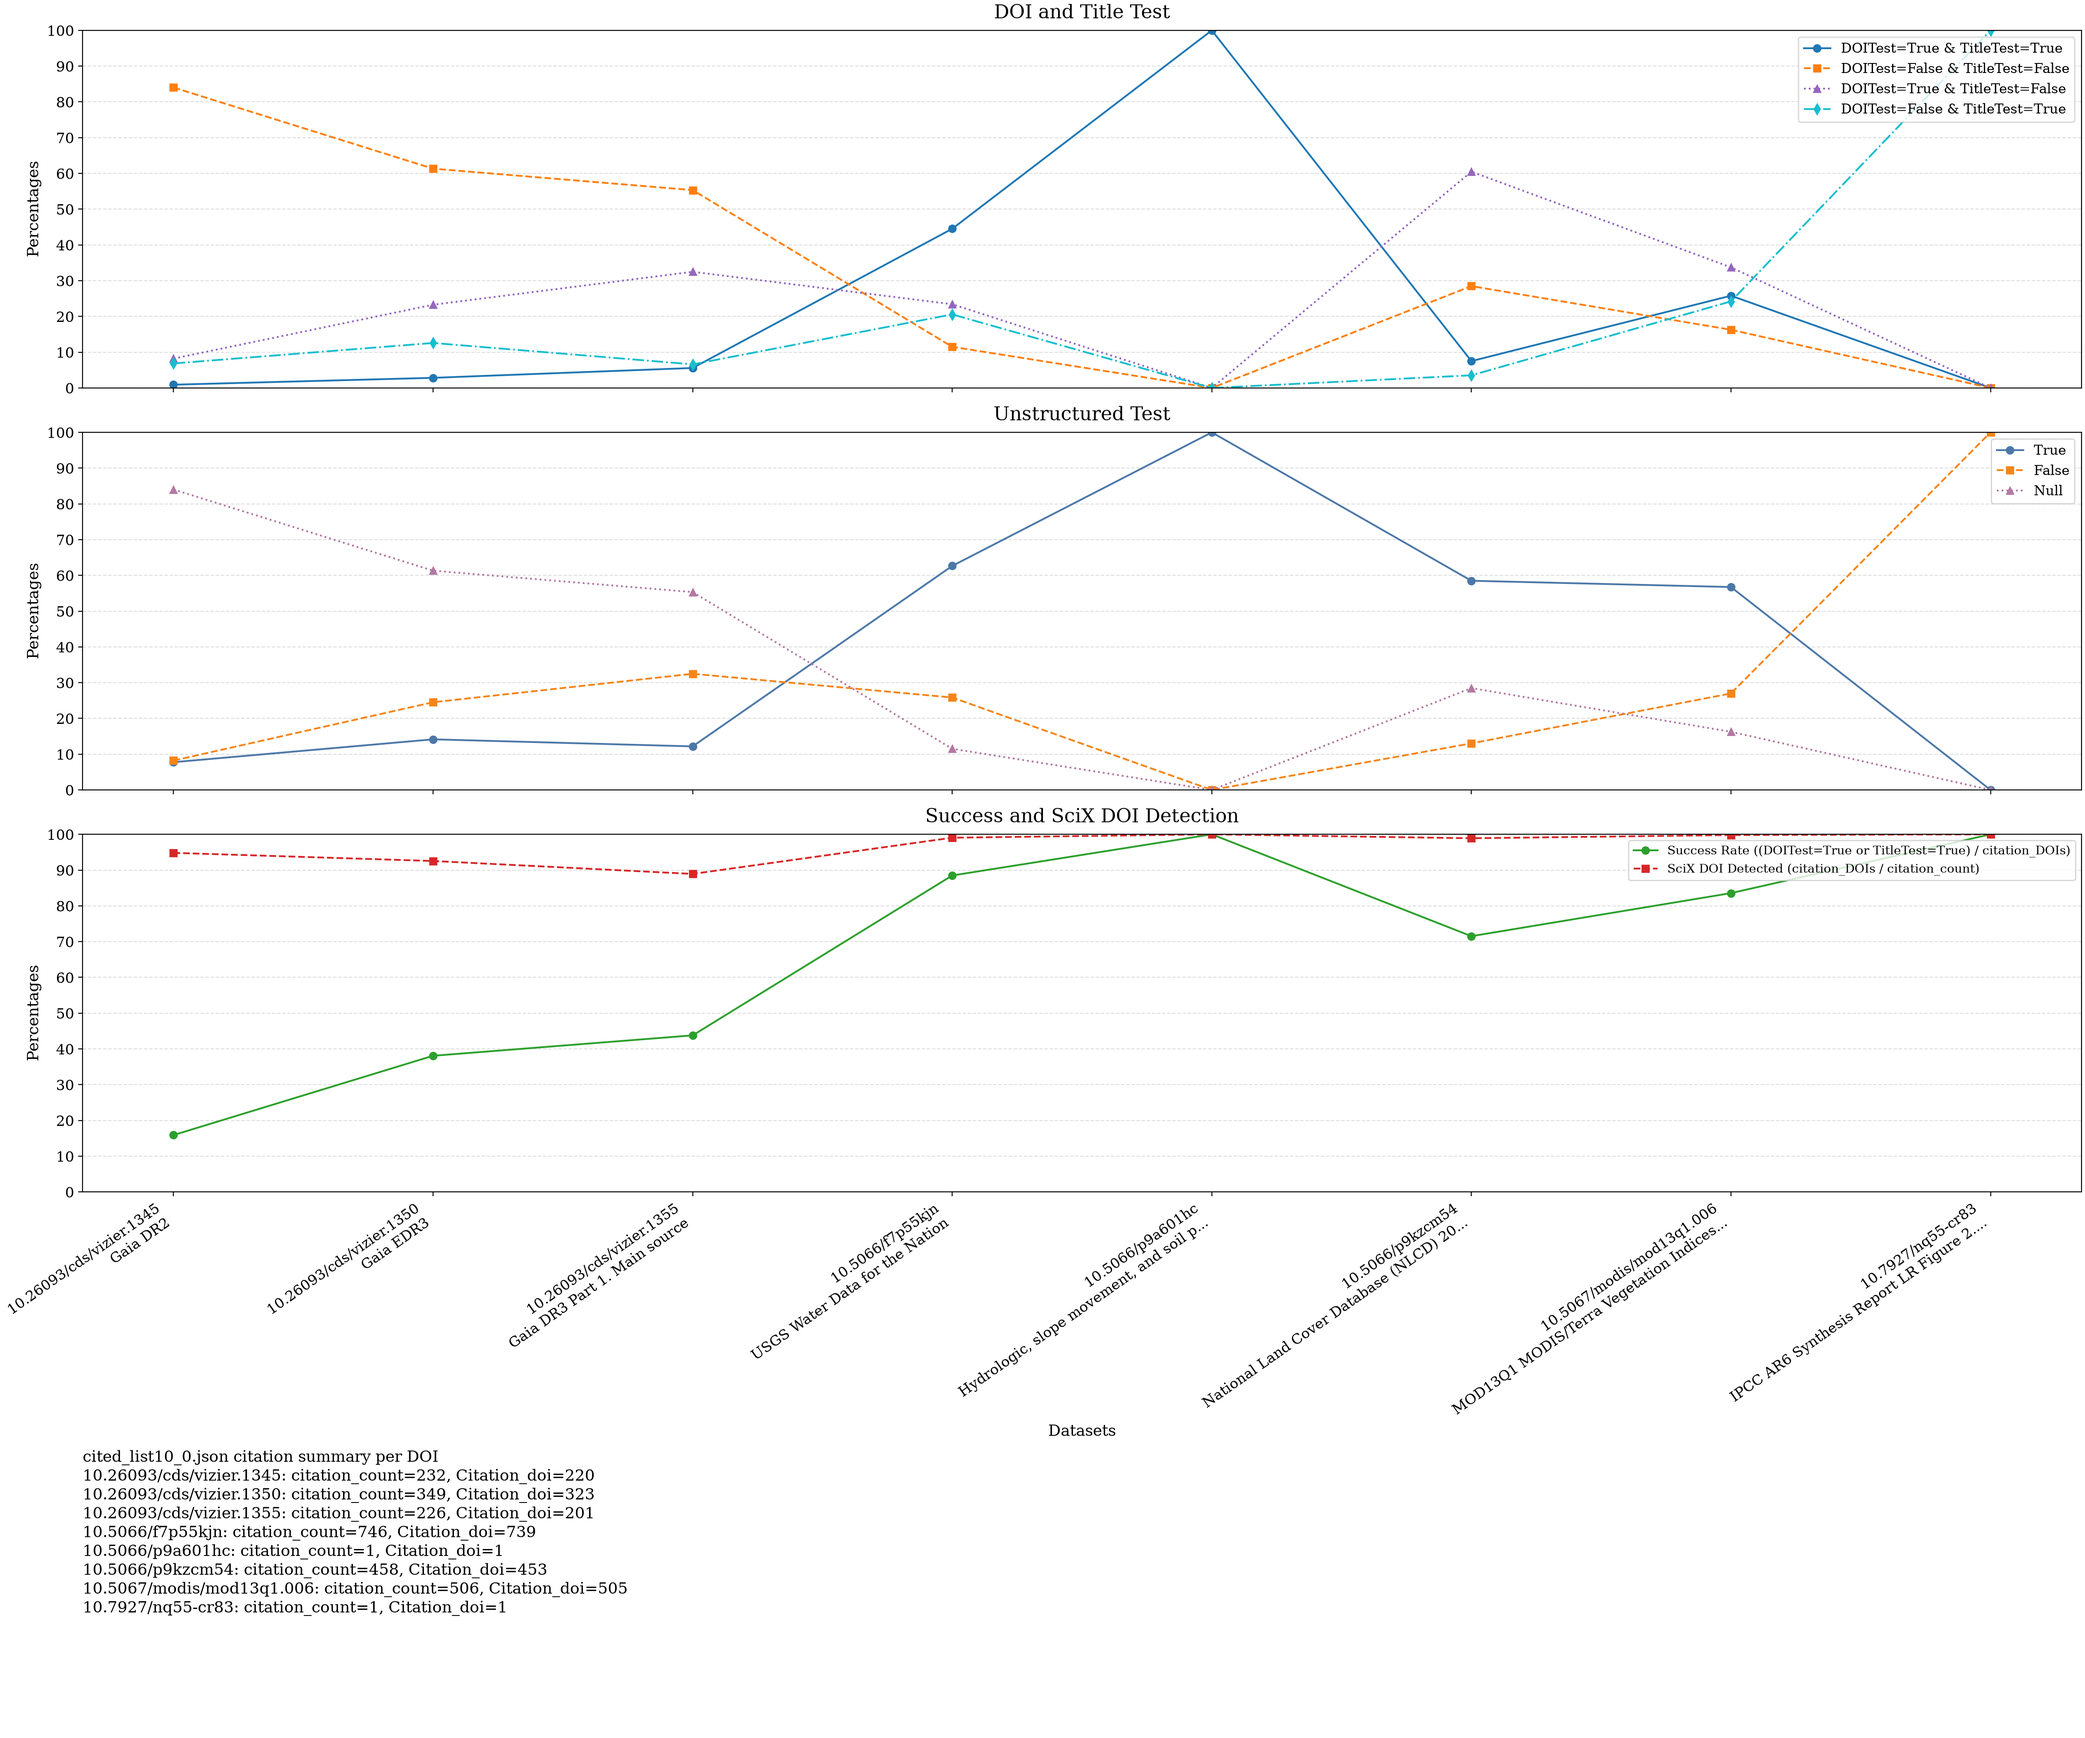
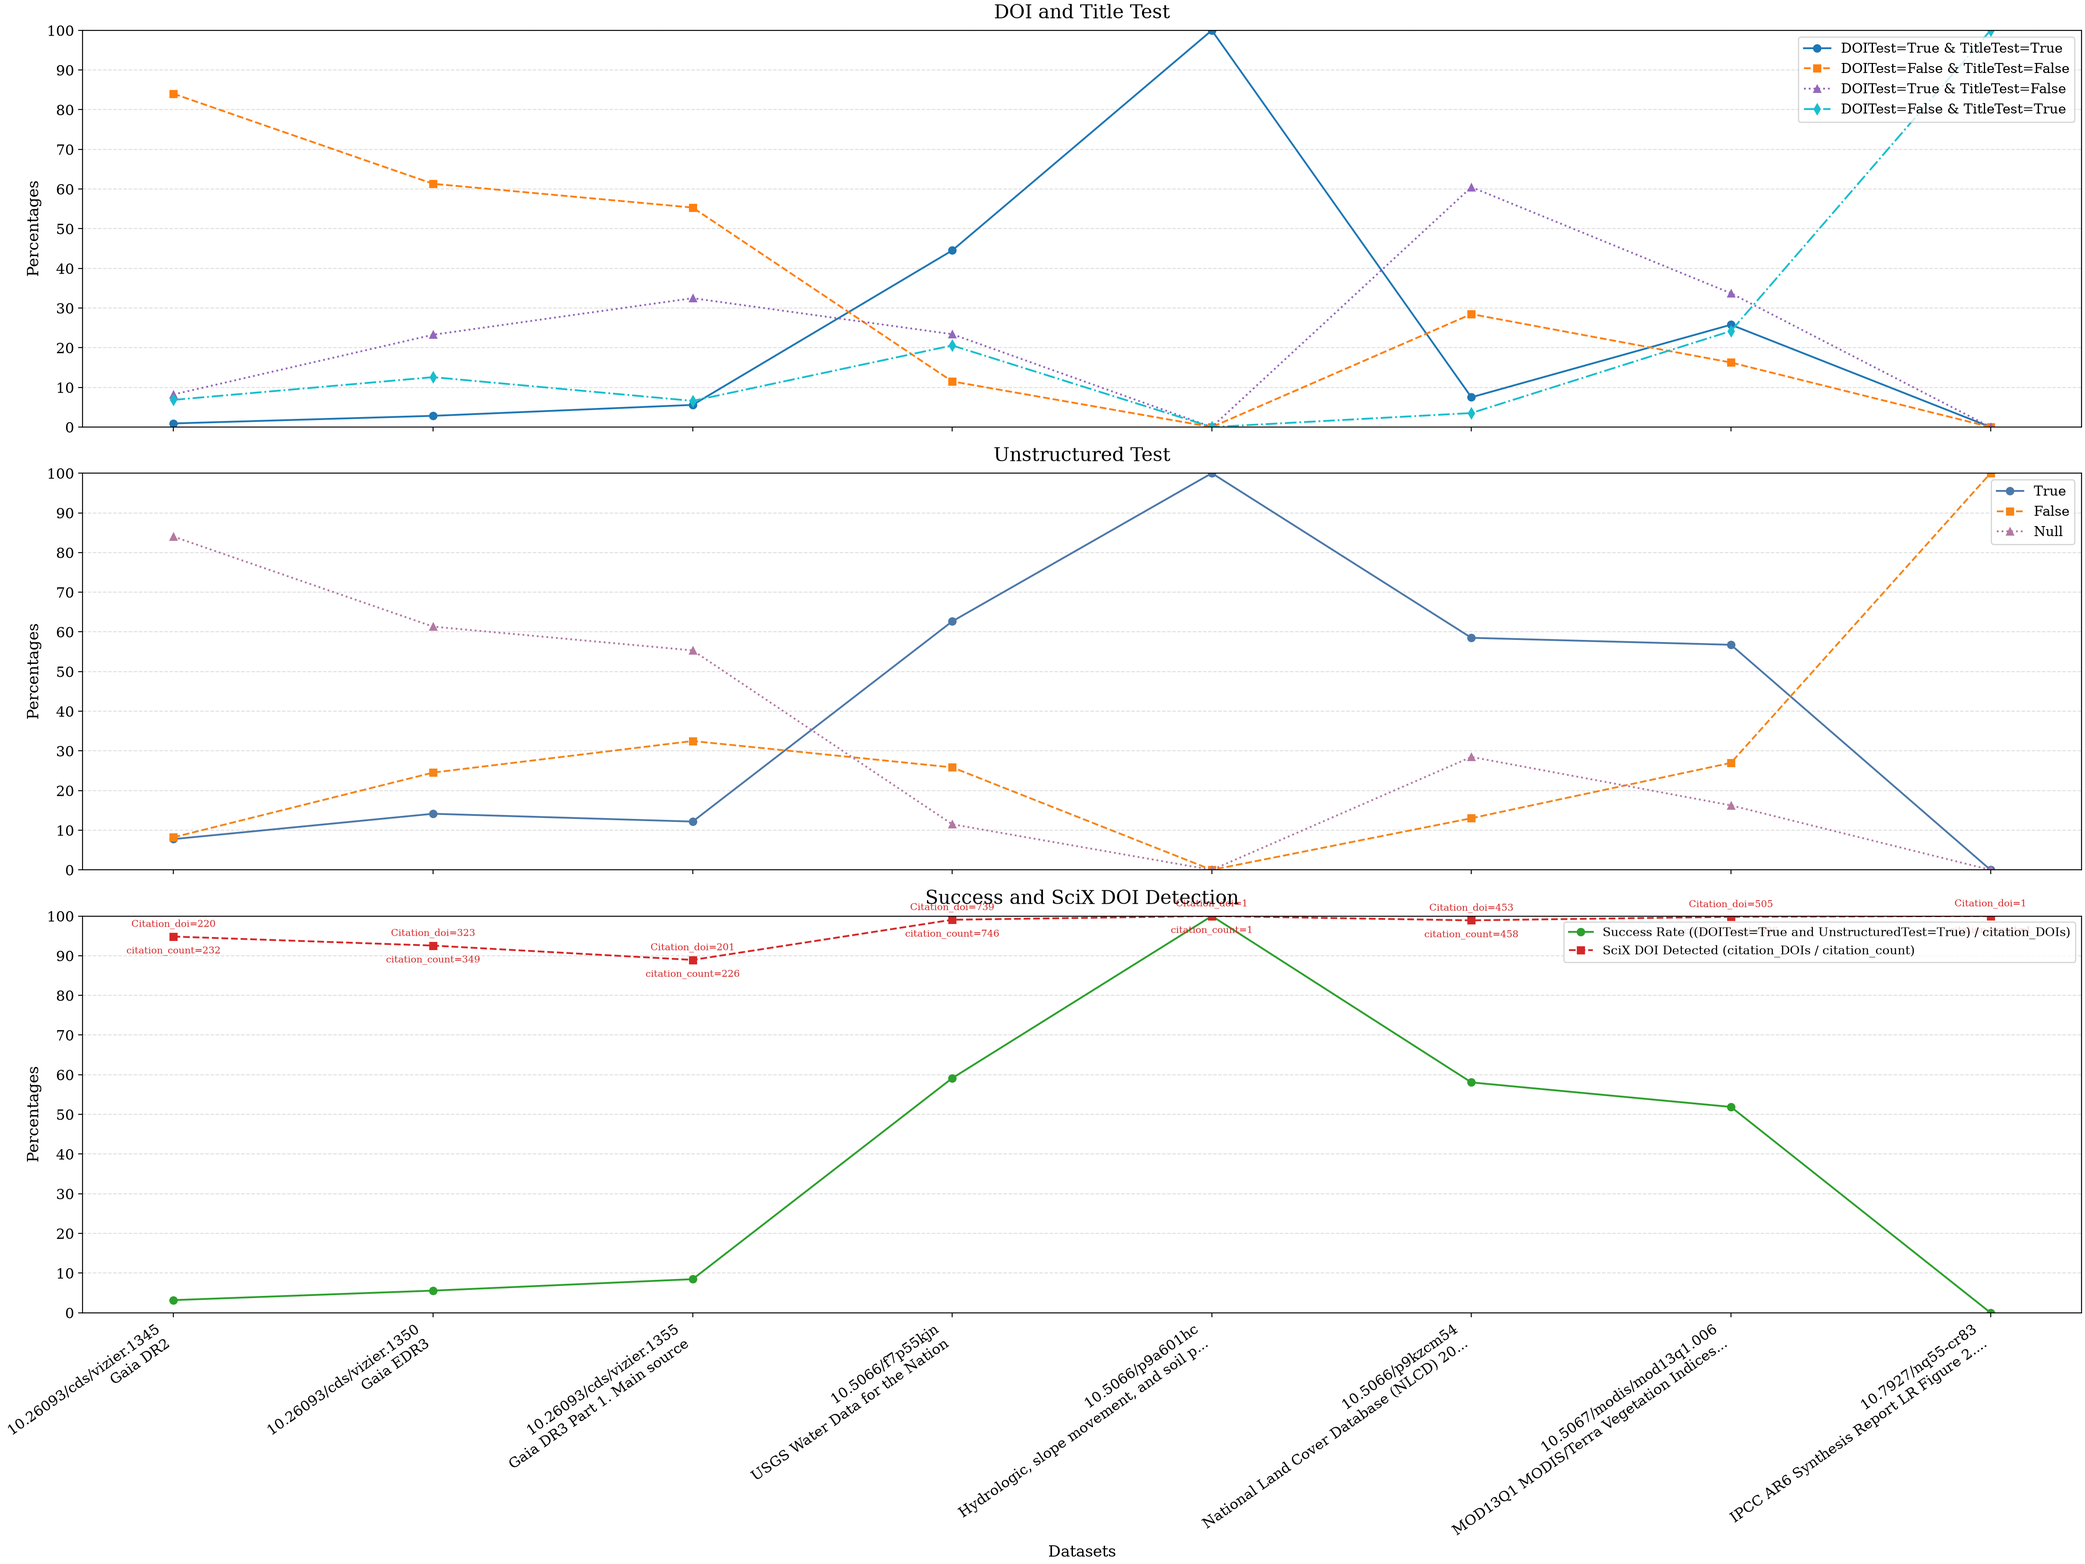
Update Dataset_Comparison chart: use DOITest+UnstructuredTest rate, annotate citation counts on chart

diff --git a/cited_list10_0_MassExtractions/Chart_CrossCheckResults.py b/cited_list10_0_MassExtractions/Chart_CrossCheckResults.py
@@ -239,25 +239,12 @@ def create_comparison_chart(
         for key in CONTAINER_KEYS
     }
 
-    fig = plt.figure(figsize=(24, 20), constrained_layout=True)
-    grid = fig.add_gridspec(4, 1, height_ratios=[1.5, 1.5, 1.5, 1.2])
+    fig = plt.figure(figsize=(24, 18), constrained_layout=True)
+    grid = fig.add_gridspec(3, 1, height_ratios=[1.5, 1.5, 1.5])
 
     ax_combo = fig.add_subplot(grid[0])
     ax_container = fig.add_subplot(grid[1], sharex=ax_combo)
     ax_success = fig.add_subplot(grid[2], sharex=ax_combo)
-    ax_text = fig.add_subplot(grid[3])
-
-    text_lines = ["cited_list10_0.json citation summary per DOI"]
-    for row in dataset_rows:
-        key = row["dataset_doi"].strip().lower()
-        summary = cited_summary.get(key)
-        if summary:
-            text_lines.append(
-                f"{row['dataset_doi']}: citation_count={summary['citation_count']}, "
-                f"Citation_doi={summary['citation_doi_count']}"
-            )
-        else:
-            text_lines.append(f"{row['dataset_doi']}: citation_count=0, Citation_doi=0 (not found)")
 
     x = list(range(len(labels)))
 
@@ -293,7 +280,7 @@ def create_comparison_chart(
         summary = cited_summary.get(key, {})
         citation_doi_count = int(summary.get("citation_doi_count", 0) or 0)
         citation_count = int(summary.get("citation_count", 0) or 0)
-        success_rate_pct.append(to_percentage(row["doi_or_title_true_count"], citation_doi_count))
+        success_rate_pct.append(to_percentage(row["doi_and_unstructured_true_count"], citation_doi_count))
         scix_detected_pct.append(to_percentage(citation_doi_count, citation_count))
 
     ax_success.plot(
@@ -302,9 +289,34 @@ def create_comparison_chart(
         linestyle="-",
         marker="o",
         color="#2ca02c",
-        label="Success Rate ((DOITest=True or TitleTest=True) / citation_DOIs)",
+        label="Success Rate ((DOITest=True and UnstructuredTest=True) / citation_DOIs)",
     )
     ax_success.plot(x, scix_detected_pct, linestyle="--", marker="s", color="#d62728", label="SciX DOI Detected (citation_DOIs / citation_count)")
+
+    # Annotate citation_count and Citation_doi on their corresponding points
+    for xi, row in enumerate(dataset_rows):
+        key = row["dataset_doi"].strip().lower()
+        summary = cited_summary.get(key, {})
+        citation_doi_count = int(summary.get("citation_doi_count", 0) or 0)
+        citation_count = int(summary.get("citation_count", 0) or 0)
+        ax_success.annotate(
+            f"Citation_doi={citation_doi_count}",
+            xy=(xi, scix_detected_pct[xi]),
+            xytext=(0, 8),
+            textcoords="offset points",
+            ha="center",
+            fontsize=8,
+            color="#d62728",
+        )
+        ax_success.annotate(
+            f"citation_count={citation_count}",
+            xy=(xi, scix_detected_pct[xi]),
+            xytext=(0, -14),
+            textcoords="offset points",
+            ha="center",
+            fontsize=8,
+            color="#d62728",
+        )
     ax_success.set_title("Success and SciX DOI Detection", fontsize=16, pad=10)
     ax_success.set_ylabel("Percentages", fontsize=13)
     ax_success.set_xlabel("Datasets", fontsize=13)
@@ -315,9 +327,6 @@ def create_comparison_chart(
     ax_success.tick_params(axis="both", labelsize=12)
     ax_success.grid(axis="y", linestyle="--", alpha=0.4)
     ax_success.legend(loc="upper right", fontsize=10)
-
-    ax_text.axis("off")
-    ax_text.text(0.0, 1.0, "\n".join(text_lines), va="top", ha="left", fontsize=13)
 
     fig.savefig(output_path, dpi=200)
     plt.close(fig)
@@ -372,7 +381,7 @@ def process_all(input_path: Path, output_dir: Path, cited_list_path: Path) -> in
                 "combo_counts": combo_counts,
                 "container_counts": container_counts,
                 "total": total,
-                "doi_or_title_true_count": doi_or_title_true_count,
+                "doi_and_unstructured_true_count": doi_and_unstructured_true_count,
             }
         )
 
